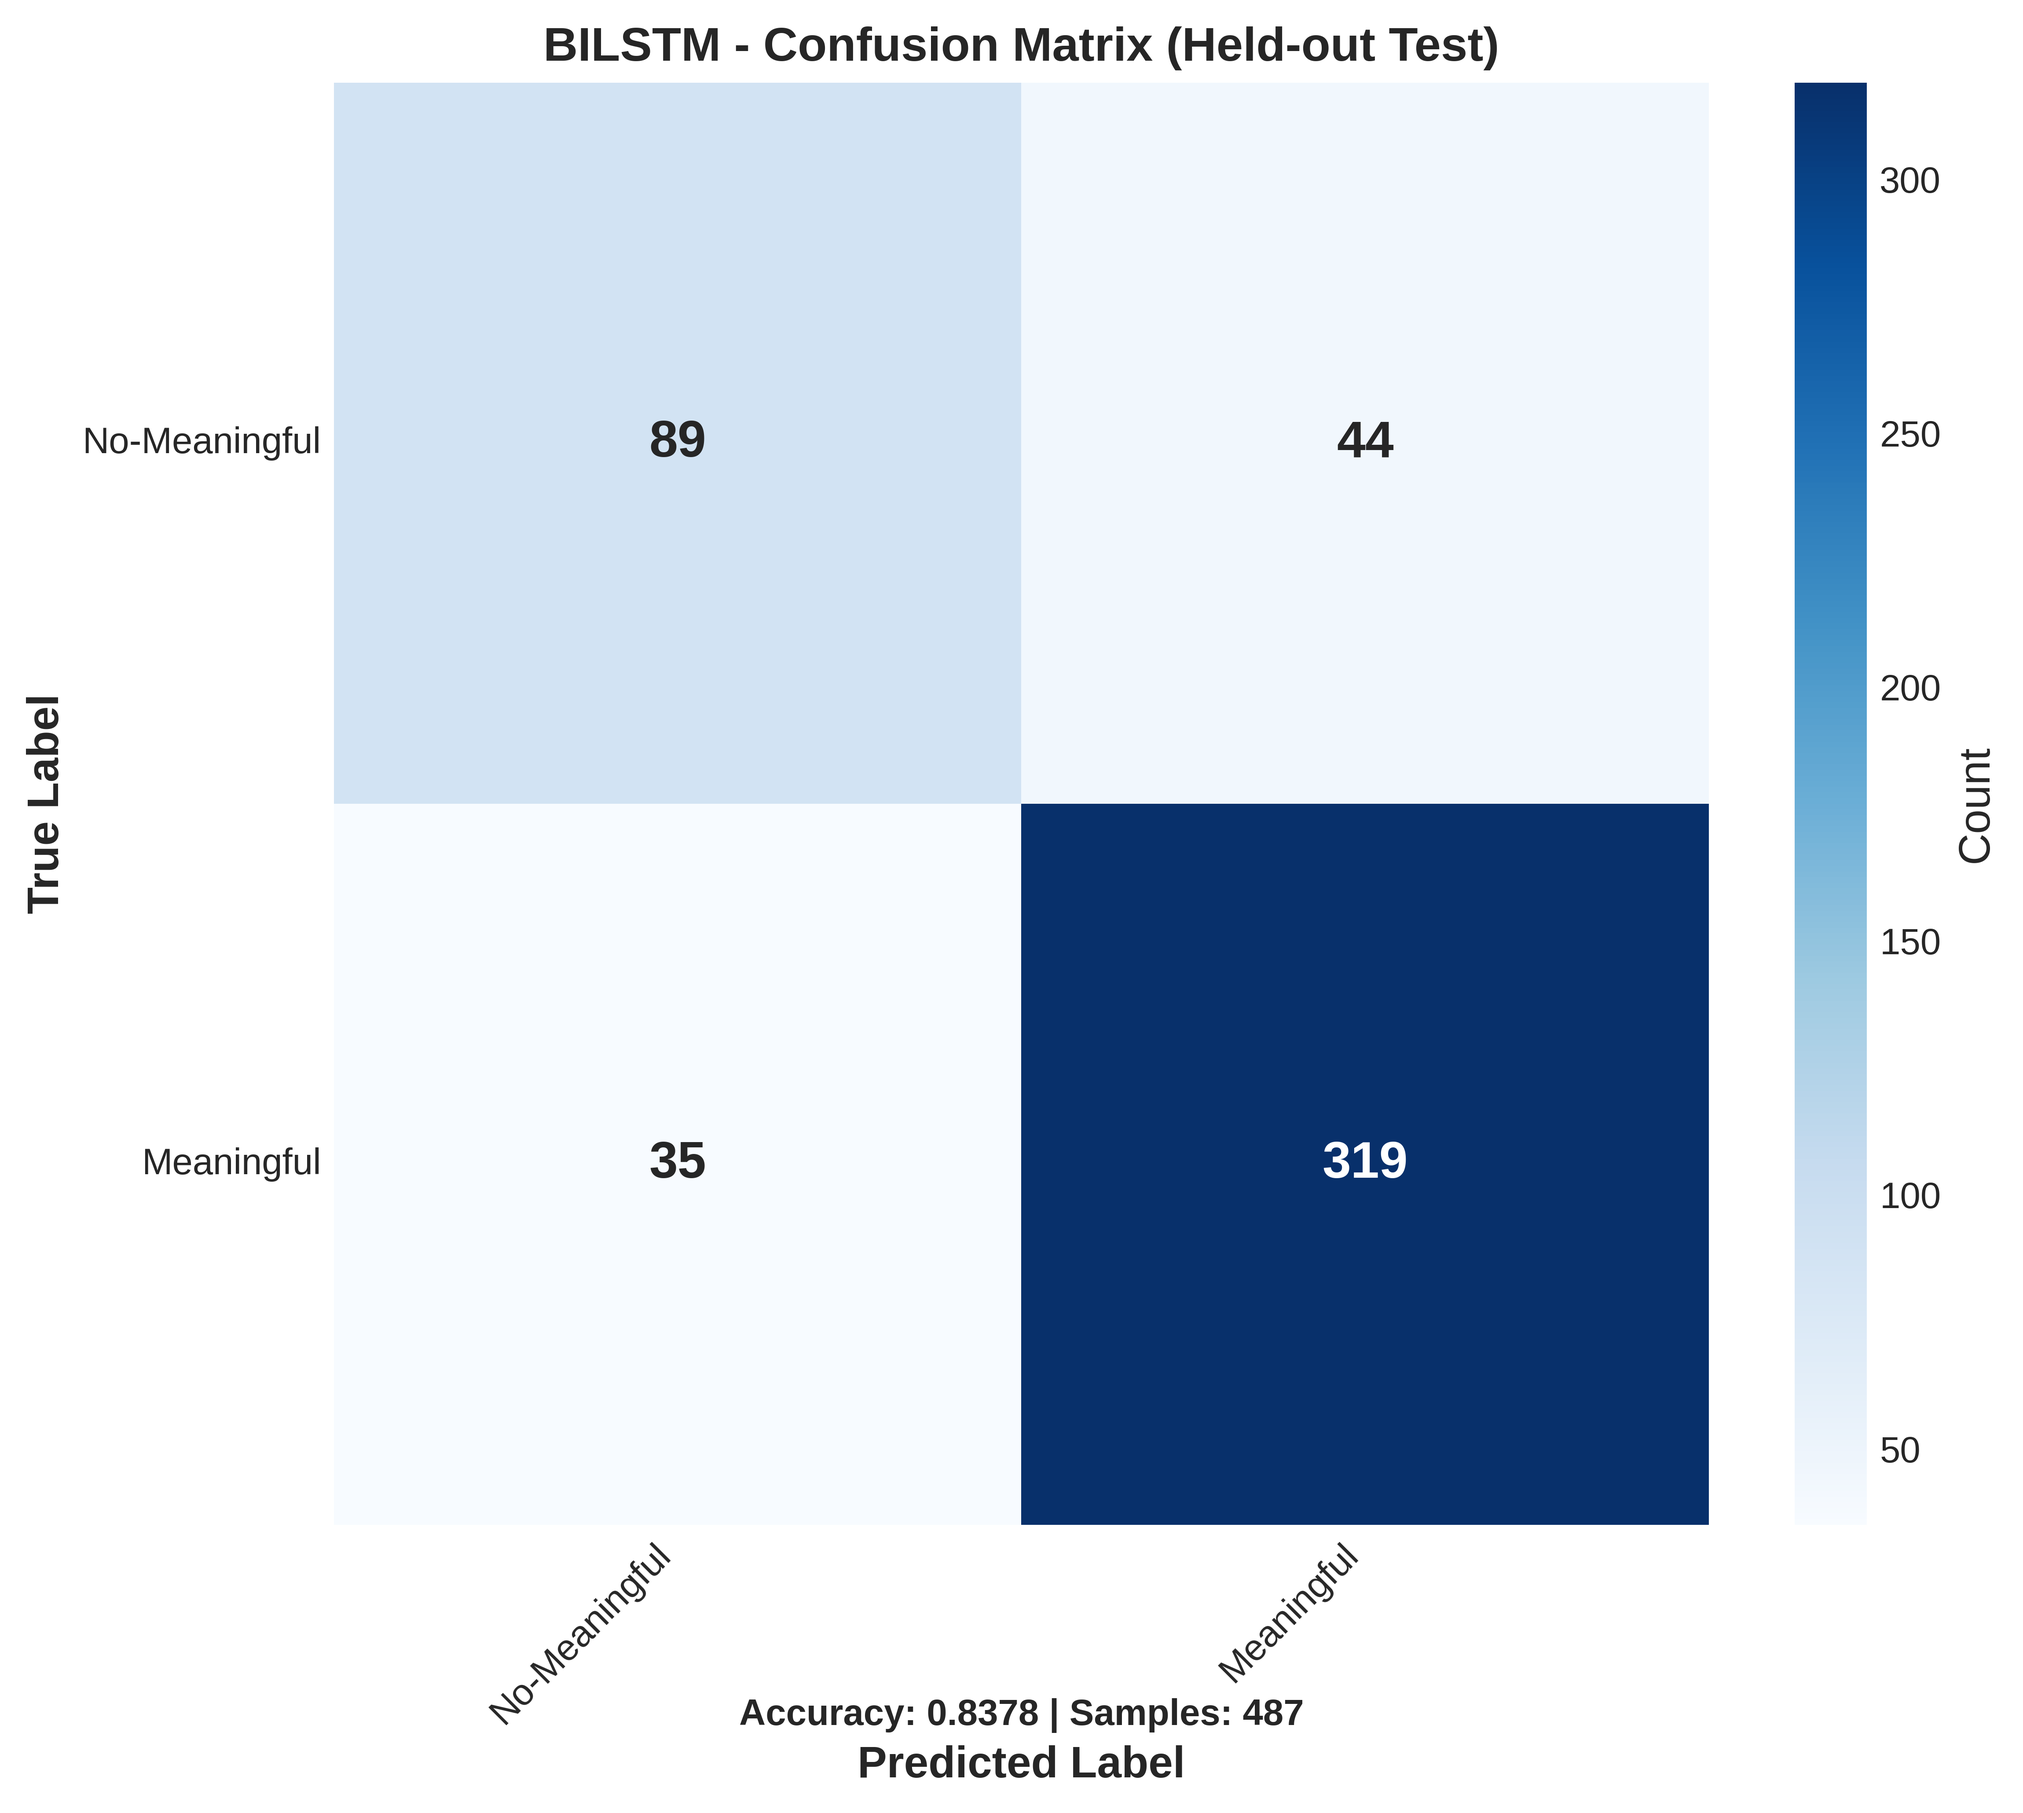
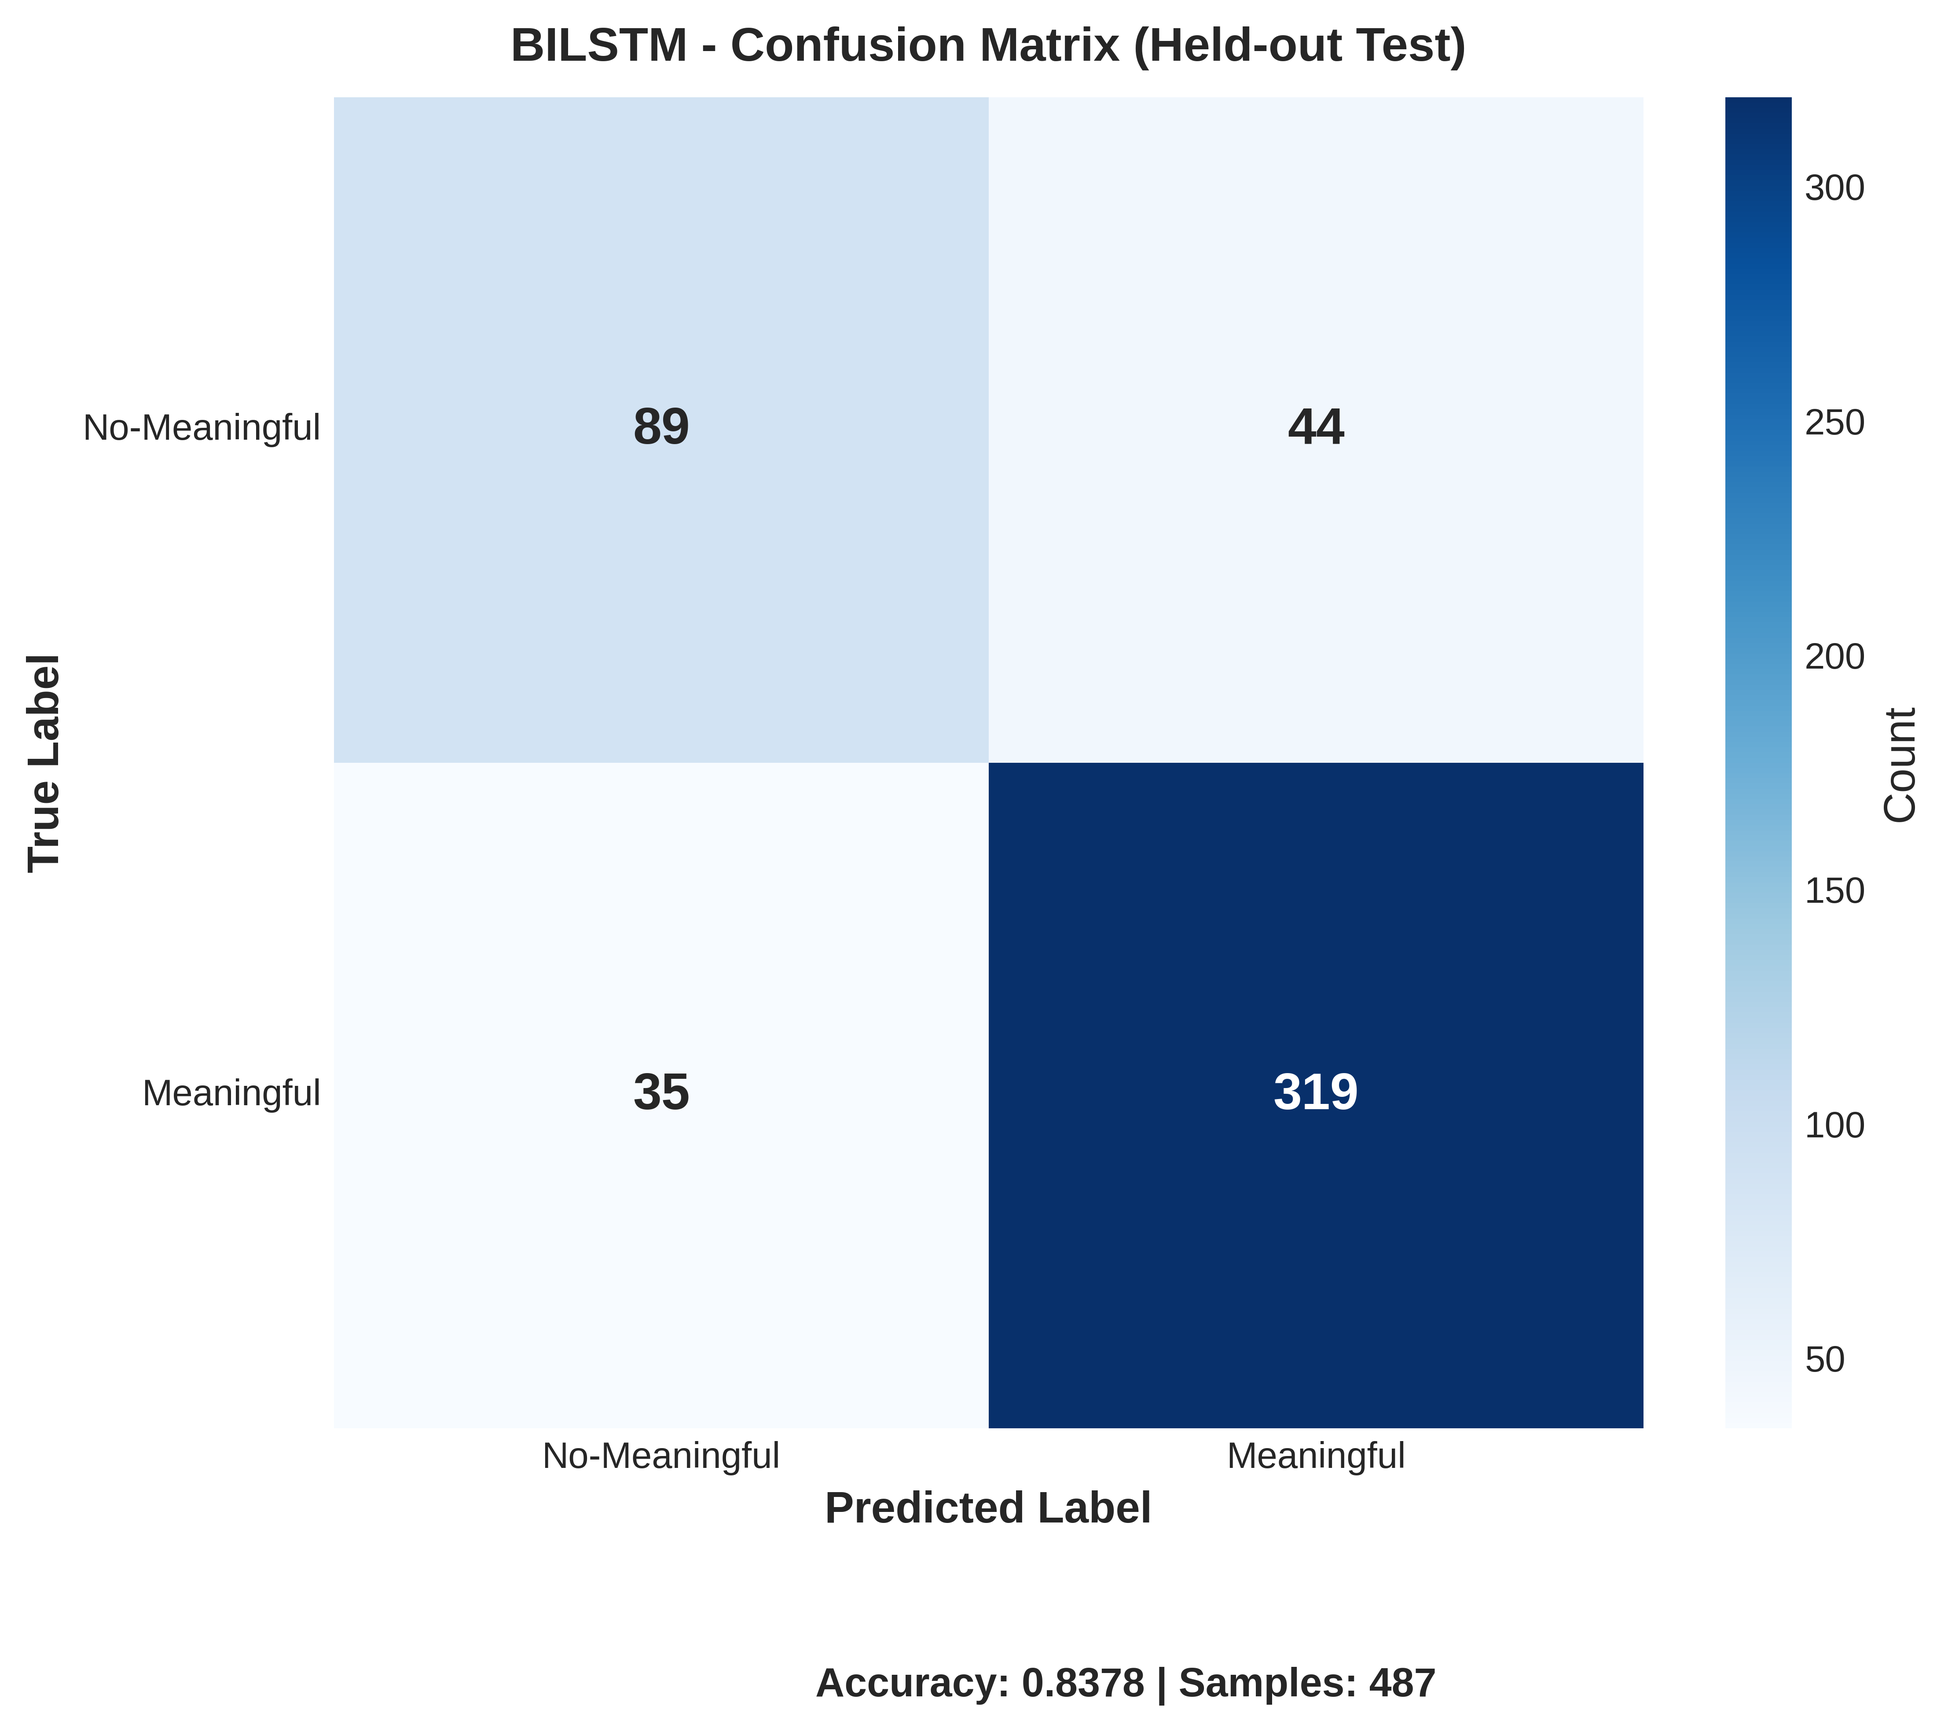
update figure

diff --git a/src/models/deep_learning_pipeline.py b/src/models/deep_learning_pipeline.py
@@ -33,7 +33,7 @@ import torch.nn as nn
 import torch.optim as optim
 import time
 import warnings
-from sklearn.metrics import accuracy_score, precision_score, recall_score, f1_score, classification_report, confusion_matrix
+from sklearn.metrics import accuracy_score, precision_score, recall_score, f1_score, classification_report
 from sklearn.model_selection import StratifiedKFold
 from sklearn.utils.class_weight import compute_class_weight
 from torch.utils.data import Dataset, DataLoader
@@ -44,6 +44,7 @@ from src.utils.path_resolver import get_pipeline_results_dirs
 from src.utils.data_loader import get_canonical_split
 from src.utils.figure_utils import (
     export_fold_metrics_csv,
+    plot_confusion_matrix_consistent,
     plot_fold_metrics_comparison,
     plot_metrics_panel,
     plot_loss_comparison,
@@ -135,38 +136,16 @@ def create_heldout_confusion_matrices(
     }
 
     for model_key, y_pred in pred_map.items():
-        cm = confusion_matrix(y_true, y_pred, labels=[0, 1])
-        fig, ax = plt.subplots(figsize=(8, 7))
-        sns.heatmap(
-            cm,
-            annot=True,
-            fmt='d',
-            cmap='Blues',
-            ax=ax,
-            cbar=True,
-            cbar_kws={'label': 'Count'},
-            annot_kws={'fontsize': 14, 'fontweight': 'bold'}
+        title = f"{model_key.upper()} - Confusion Matrix (Held-out Test)"
+        fig = plot_confusion_matrix_consistent(
+            y_true=y_true,
+            y_pred=y_pred,
+            title=title,
+            output_path=figures_dir,
+            filename_stem=f"deep_learning_confusion_matrix_{model_key}_heldout_test",
+            class_labels=["No-Meaningful", "Meaningful"],
+            formats=("png", "pdf"),
         )
-        ax.set_title(f"{model_key.upper()} - Confusion Matrix (Held-out Test)", fontsize=13, fontweight="bold")
-        ax.set_xlabel("Predicted Label", fontsize=12, fontweight='bold')
-        ax.set_ylabel("True Label", fontsize=12, fontweight='bold')
-        ax.set_xticklabels(["No-Meaningful", "Meaningful"], rotation=45, ha='right')
-        ax.set_yticklabels(["No-Meaningful", "Meaningful"], rotation=0)
-
-        accuracy = (np.trace(cm) / np.sum(cm)) if np.sum(cm) > 0 else 0.0
-        ax.text(
-            0.5,
-            -0.12,
-            f"Accuracy: {accuracy:.4f} | Samples: {np.sum(cm)}",
-            ha="center",
-            va="top",
-            transform=ax.transAxes,
-            fontsize=10,
-            fontweight="bold",
-        )
-        ax.grid(False)
-        plt.tight_layout()
-        save_figure_multi_format(fig, figures_dir, f"deep_learning_confusion_matrix_{model_key}_heldout_test", ("png", "pdf"))
         plt.close(fig)
 
 
